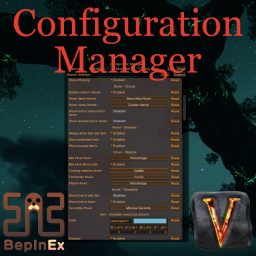
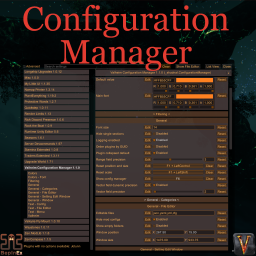
1.1.0

diff --git a/SettingEditWindow.cs b/SettingEditWindow.cs
@@ -1088,8 +1088,6 @@ namespace ConfigurationManager
             if (originalHEX.Equals(newHEX))
                 return;
 
-            //LogInfo($"\n\"{originalHEX}\" -> \"{newHEX}\"");
-
             if (originalHEX.Length == newHEX.Length)
             {
                 // Symbols were replaced without change of string length, just replace string
@@ -1122,8 +1120,6 @@ namespace ConfigurationManager
             }
 
             originalHEX = originalHEX.PadRight(9, '0');
-
-            //LogInfo($"{originalHEX}");
         }
 
         void FindStartEndLength(string originalHEX, string newHEX, out string startString, out string endString)

diff --git a/package/thunderstore/ConfigurationManager/CHANGELOG.md b/package/thunderstore/ConfigurationManager/CHANGELOG.md
@@ -1,12 +1,10 @@
 # 1.1.0
+* new default view mode - Split View (legacy List View mode is still available)
 * new feature - Configuration File Editor for ingame editing of cfg, yaml and json files
-* new default view mode - Split View (legacy Simgle Column mode is still available)
-* multiple visual improvements
-* window scaling now respects Valheim scaling and still has its own config
+* new feature - Setting Edit Window for single settings
+* window scaling now respects Valheim scaling (enabled by default) and can be configured further
 * tooltip text aligned by left and tooltip size respects line separators and text size
-* toggle and slider properly aligned
-* settings now has little [?] next to settings value to get tooltip on hover
-* added several hovers for better readability
+* multiple UI and UX improvements
 
 # 1.0.25
 * window scaling

diff --git a/package/thunderstore/ConfigurationManager/README.md b/package/thunderstore/ConfigurationManager/README.md
@@ -21,6 +21,9 @@ Press hotkey button in game (default `F1`) to open mod window and change configu
 * Lots of minor refinements and improvements
 * Readonly entries (locked from server) could be colored, disabled or completely hidden
 * Window can be scaled to better fit 4K screens
+* default view is Split View where plugins and categories are showed as a tree in left column
+* File Editor for configuration files
+* Setting Edit Window for more detailed setting configuration
 
 ## Valheim specific
 The game does not take input while the window is open (only player input by default).
